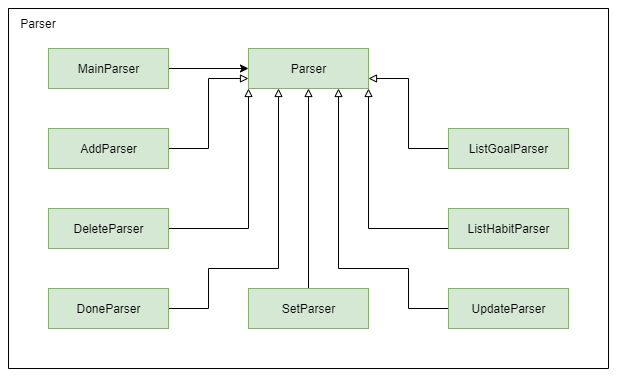
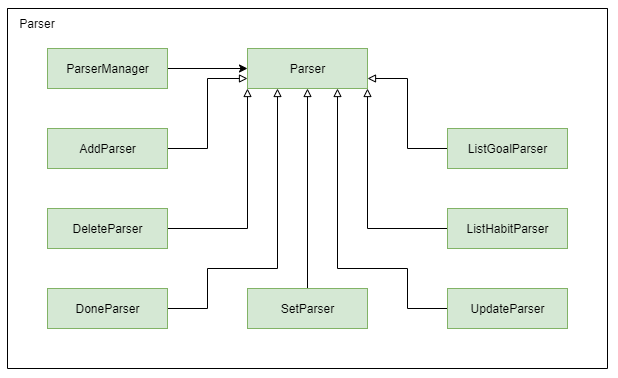
Update ParserComponent Diagram
Updated diagram changing MainParser to ParserManager

diff --git a/docs/DeveloperGuide.md b/docs/DeveloperGuide.md
@@ -175,8 +175,8 @@ the high level representation of the component.
 
 **API:** `Parser.java`
 
-1. A user input is given to `MainParser` that determines which subclass of `Parser` is required
-2. Inputs starting with `help`, `return`, and `exit` are handled by `MainParser`
+1. A user input is given to `ParserManager` that determines which subclass of `Parser` is required
+2. Inputs starting with `help`, `return`, and `exit` are handled by `ParserManager`
 3. Other inputs are handled by `Parser`, which has a total of 7 subclasses
 4. `AddParser` handles the parsing of inputs starting with `set` and `add`
 5. `DeleteParser` handles the parsing of inputs starting with `remove` and `delete`
